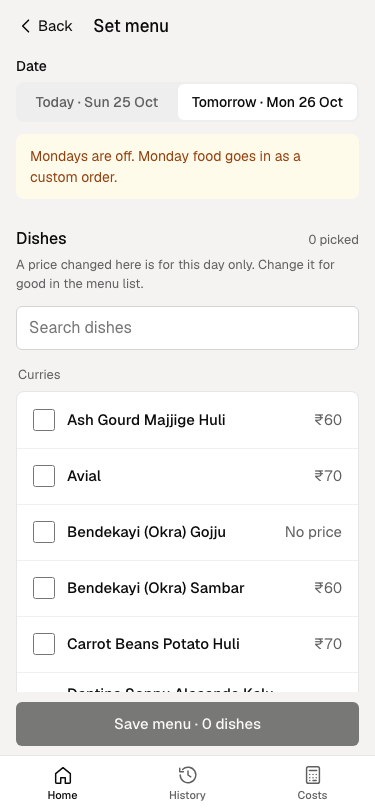
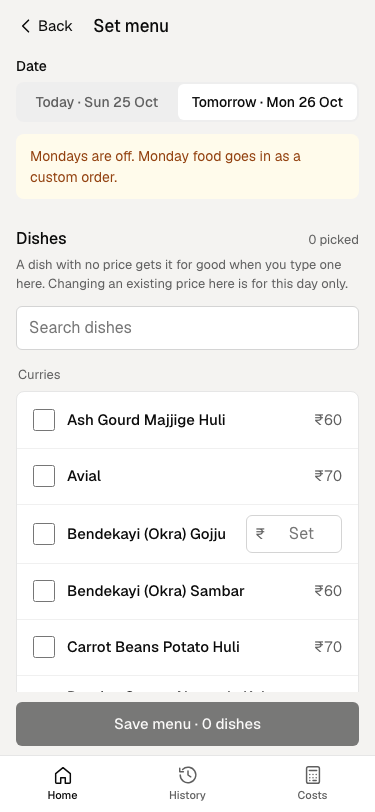
Price an unpriced dish from the set-menu screen, saved to the menu list

diff --git a/site/public/index.html b/site/public/index.html
@@ -839,7 +839,9 @@ function viewLunchSetup(q){
     return '<div class="sgroup"><div class="grouphead">'+g+'</div><div class="list">'+items.map(function(it){
       var on=!!draft.sel[it.id], lp=lastPostedText("lunch",it), pr=draft.price[it.id]!==undefined?draft.price[it.id]:it.price;
       return '<div class="pick" data-name="'+esc(normName(it.name))+'"><label class="check grow" style="min-height:0;padding:0"><input type="checkbox" '+(on?'checked':'')+' onchange="lsToggle(\''+it.id+'\',this.checked)"><span class="grow"><span class="nm">'+esc(it.name)+'</span>'+(lp?'<span class="meta" style="display:block">'+lp+'</span>':'')+'</span></label>'+
-        (on?'<span class="money-in"><input type="number" inputmode="numeric" aria-label="Price for '+esc(it.name)+' on this day" value="'+(pr==null?"":pr)+'" placeholder="—" oninput="draft.price[\''+it.id+'\']=num(this.value)"></span>':'<span class="val muted num">'+(it.price==null?"No price":rupee(it.price))+'</span>')+'</div>';
+        (on?'<span class="money-in"><input type="number" inputmode="numeric" aria-label="Price for '+esc(it.name)+' on this day" value="'+(pr==null?"":pr)+'" placeholder="—" oninput="draft.price[\''+it.id+'\']=num(this.value);fillListPrice(\''+it.id+'\',this.value)"></span>'
+          :it.price==null?'<span class="money-in"><input type="number" inputmode="numeric" aria-label="Price for '+esc(it.name)+' in the menu list" placeholder="Set" oninput="fillListPrice(\''+it.id+'\',this.value,true)"></span>'
+          :'<span class="val muted num">'+rupee(it.price)+'</span>')+'</div>';
     }).join("")+'</div></div>';
   }).join("");
   var chosen=S.menus.lunch.filter(function(i){return draft.sel[i.id];});
@@ -850,7 +852,7 @@ function viewLunchSetup(q){
   $app.innerHTML=bar(ev?"Edit menu":"Set menu","#/lunch?d="+d)+'<main class="page">'+
     '<div class="field"><label class="f">Date</label><div class="seg full" role="group"><button aria-pressed="'+(dd===t)+'" onclick="draft.date=\''+t+'\';render()">Today · '+fmtDate(t)+'</button><button aria-pressed="'+(dd===tm)+'" onclick="draft.date=\''+tm+'\';render()">Tomorrow · '+fmtDate(tm)+'</button></div></div>'+
     (blocked?'<p class="notice" style="margin-top:12px">'+blocked+'</p>':'')+(clash?'<p class="notice" style="margin-top:12px">'+relDate(dd)+' already has a menu. Edit that one instead.</p>':'')+
-    '<div class="section"><h2>Dishes<span class="aside num">'+chosen.length+' picked'+(chosen.length?' · <button class="btn text" style="height:auto;padding:0;font-size:inherit" onclick="untickAll()">Untick all</button>':'')+'</span></h2><p class="sub" style="margin:-4px 0 8px">A price changed here is for this day only. Change it for good in the menu list.</p>'+'<input type="search" class="search" placeholder="Search dishes" aria-label="Search dishes" oninput="filterDishes(this.value)">'+groups+
+    '<div class="section"><h2>Dishes<span class="aside num">'+chosen.length+' picked'+(chosen.length?' · <button class="btn text" style="height:auto;padding:0;font-size:inherit" onclick="untickAll()">Untick all</button>':'')+'</span></h2><p class="sub" style="margin:-4px 0 8px">A dish with no price gets it for good when you type one here. Changing an existing price here is for this day only.</p>'+'<input type="search" class="search" placeholder="Search dishes" aria-label="Search dishes" oninput="filterDishes(this.value)">'+groups+
       '<button class="btn secondary block" style="margin-top:12px" onclick="newItemSheet(\'lunch\',true)">New dish</button></div>'+
     '<div class="section"><h2>Combos<span class="aside">set fresh each day</span></h2><p class="sub" style="margin:-4px 0 0">The customer pays the combo price. The kitchen only sees the dishes.</p>'+combos+
       '<button class="btn secondary block" style="margin-top:12px" onclick="draft.combos.push({id:uid(),name:\'Combo \'+(draft.combos.length+1),price:null,dishes:[]});render()">Add a combo</button></div>'+
@@ -858,6 +860,16 @@ function viewLunchSetup(q){
     '</main>';
   dock('<button class="btn primary" '+(blocked||clash||!chosen.length?'disabled':'')+' onclick="saveLunch()">'+(ev?"Save menu":"Save menu · "+plural(chosen.length,"dish","dishes"))+'</button>');
   tabbar("home");
+}
+/* a dish with no price yet: the price typed here goes into the menu list for good,
+   whether or not the dish is on this day's menu. A dish that already has a list price
+   keeps it; a price changed on a picked dish is for that day only. */
+var listFilled={};
+function fillListPrice(id,v,unticked){
+  var it=S.menus.lunch.filter(function(i){return i.id===id;})[0]; if(!it) return;
+  if(it.price!=null&&!listFilled[id]) return;
+  var n=num(v); it.price=n; listFilled[id]=n!=null; save();
+  if(unticked&&n!=null) clearTimeout(fillListPrice.t), fillListPrice.t=setTimeout(function(){ toast(it.name+" saved at "+rupee(n)+" in the menu list"); },900);
 }
 function untickAll(){ draft.sel={}; draft.combos.forEach(function(c){ c.dishes=[]; }); render(); }
 function clearLunch(id){
